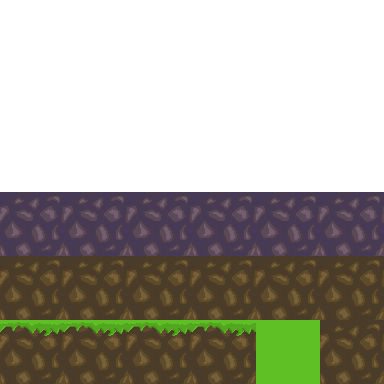
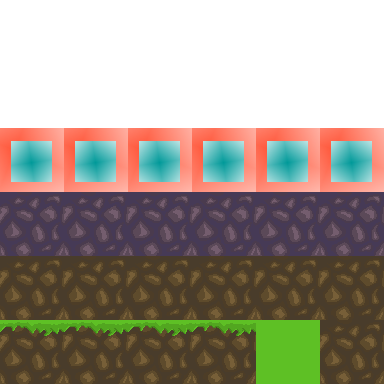
block moche

Changed region(s): [[0.0, 0.3125, 1.0, 0.5]]

diff --git a/game.js b/game.js
@@ -212,6 +212,11 @@ function loadLevel(stringLevel, scene, spawnPoints, poros)
                 var pos = new BABYLON.Vector3(width/2,(levelHeight - height)/2, 0);
                 instanceBlock(pos, blockList[2]);
             }
+            if(caracter[width] == "4")
+            {
+                var pos = new BABYLON.Vector3(width/2,(levelHeight - height)/2, 0);
+                instanceBlock(pos, blockList[3]);
+            }            
             else if(caracter[width] == "x")
             {
                 var spawnPosition = new BABYLON.Vector3(width/2, (levelHeight - height)/2, 0); //mal spawnposition
@@ -272,7 +277,7 @@ function initOriginalsBlock(scene)
 {
     var blockList = Array();
 
-    for(let i=0;i<3;i++)
+    for(let i=0;i<4;i++)
         blockList.push(buildBlock(scene, i));
 
     return blockList;

diff --git a/sonaLevel.js b/sonaLevel.js
@@ -162,6 +162,8 @@ function loadchunk(stringChunk, posoffset, originalBlockList)
                 case "3":
                     chunkBlocks.push(instanceBlock(pos, originalBlockList[2]));
                     break;
+                case "4":
+                    chunkBlocks.push(instanceBlock(pos, originalBlockList[3]));
             }
         }
     }
@@ -183,8 +185,8 @@ function getRandomChunkModel()
 var c1 = 
 "0 0 0 0 0 0 0 0 0 0 \n" +
 "0 0 0 0 0 0 0 0 0 0 \n" +
-"1 1 1 1 1 1 1 1 1 1 \n" +
-"2 2 2 2 2 2 2 2 2 2 ";
+"4 4 4 4 4 4 4 4 4 4 \n" +
+"4 4 4 4 4 4 4 4 4 4 ";
 
 var c2 = 
 "0 0 0 0 0 0 0 0 0 0 \n" +

diff --git a/escript.js b/escript.js
@@ -3,7 +3,7 @@ var width;
 var height;
 var selectedBlock;
 
-var block = ["resources/editor/void.png", "resources/editor/grassy_dirt.png", "resources/editor/dirt.png", "resources/editor/cave_dirt.png"];
+var block = ["resources/editor/void.png", "resources/editor/grassy_dirt.png", "resources/editor/dirt.png", "resources/editor/cave_dirt.png", "resources/editor/sona_block.png"];
 var spawn = "resources/editor/spawn.png";
 var exit = "resources/editor/exit.png";
 var poro = "resources/editor/poro_editor.png";

diff --git a/index.html b/index.html
@@ -61,8 +61,8 @@
         var engine = new BABYLON.Engine(canvas, true); // Generate the BABYLON 3D engine
         
    
-        var gameScene = createSceneMenu();
-        //var gameScene = sonaScene();
+        //var gameScene = createSceneMenu();
+        var gameScene = sonaScene();
         //var gameScene = createScene(stringLevel1);
         //var gameScene = specialScene();
 
